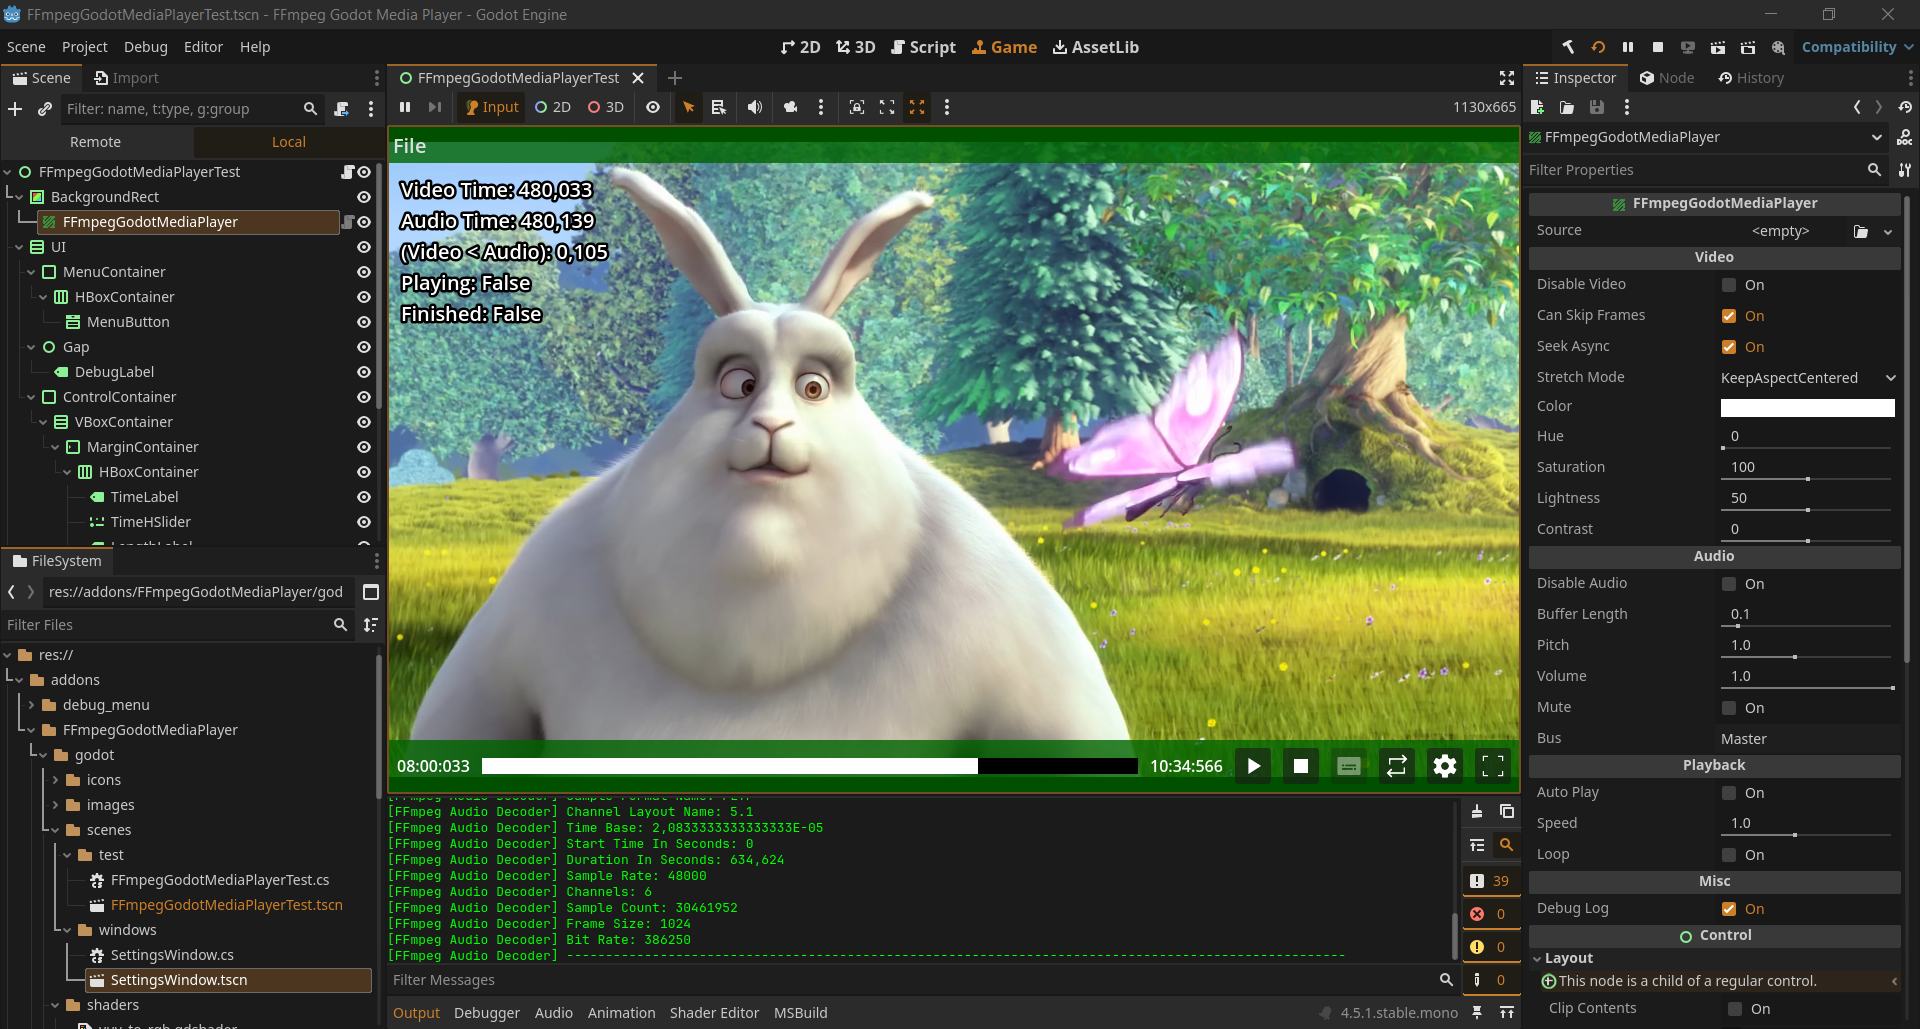
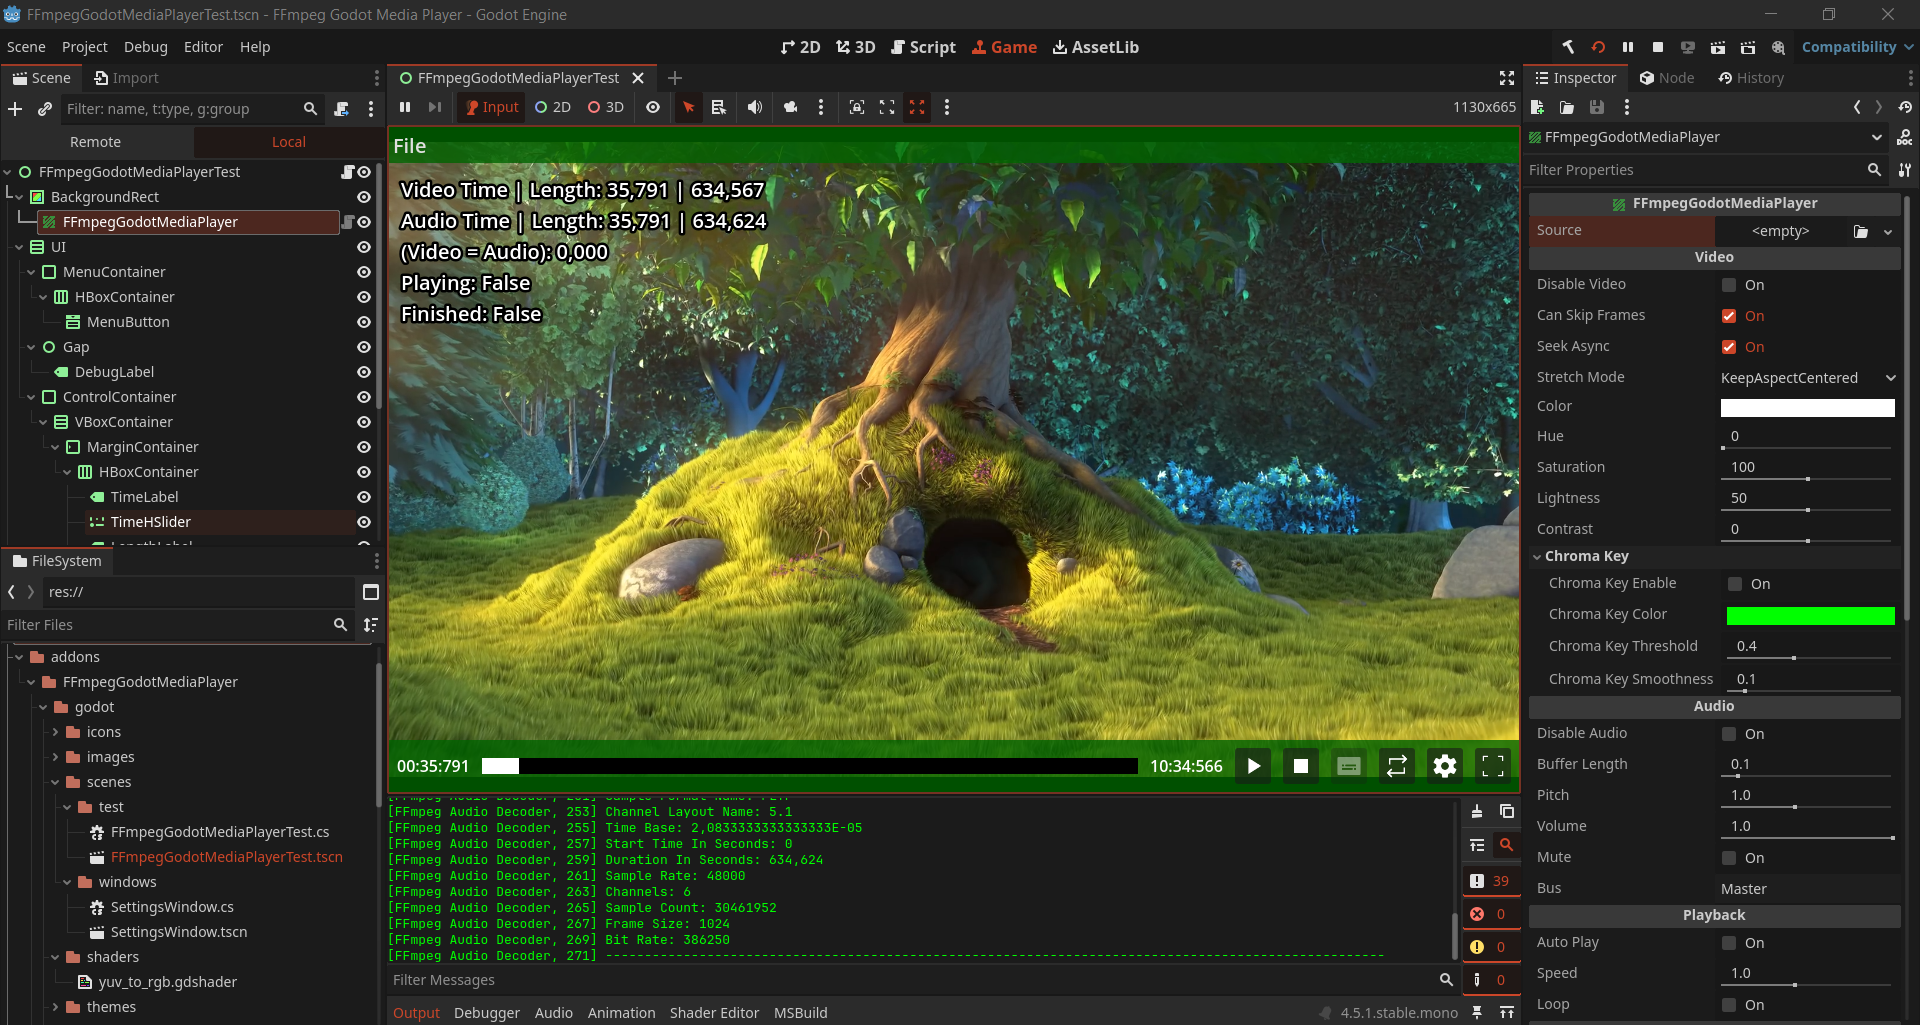
Version 1.1.8

diff --git a/README.md b/README.md
@@ -17,6 +17,7 @@ This project is an addon for the Godot Engine that integrates FFmpeg to decode a
 - Video seeking async
 - Stretch mode
 - Color, Hue, Saturation, Lightness, Contrast
+- Chroma Key
 - Audio buffer length
 - Pitch, Volume, Mute, Bus
 - Auto playing
@@ -27,10 +28,9 @@ This project is an addon for the Godot Engine that integrates FFmpeg to decode a
 
 ## Limitations
 
-- No hardware acceleration (there is no way to implement this in Godot)
-- C# maybe slower comparing to GDExtension
+- No hardware acceleration
 - Right now only video files can import into the editor ("mp4", "webm", "mpg", "mpeg", "mkv", "avi", "mov", "wmv", "ogv")
-- Only Windows is supported
+- Only Windows is supported at this moment
 
 ## Requirements
 
